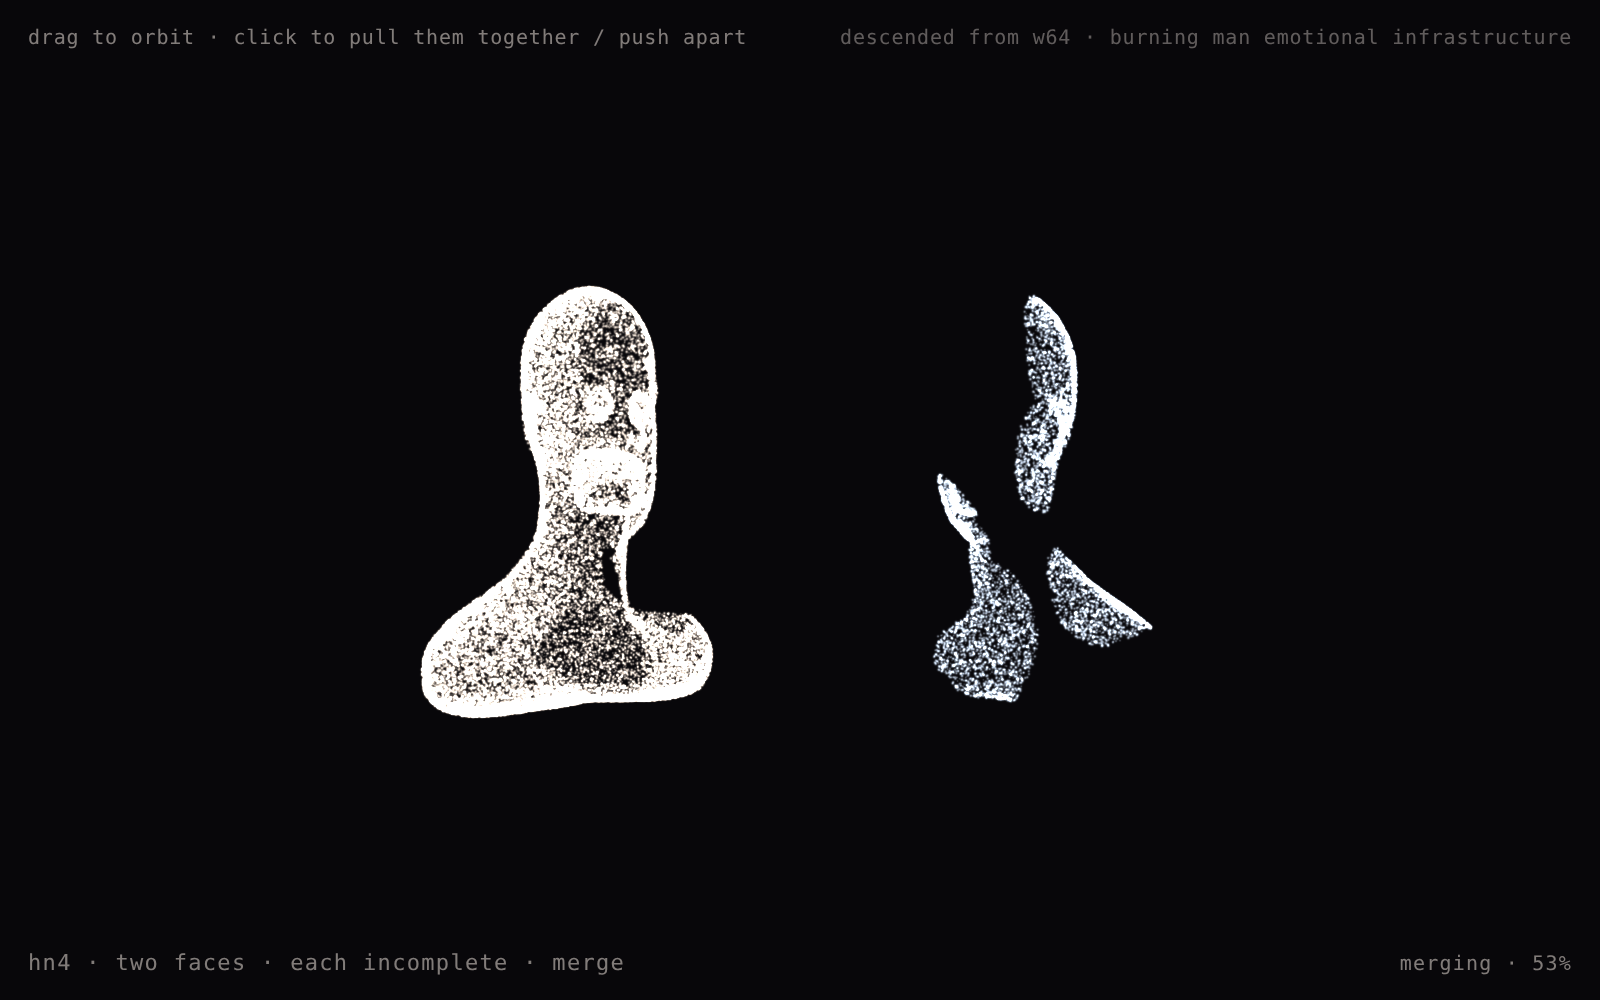
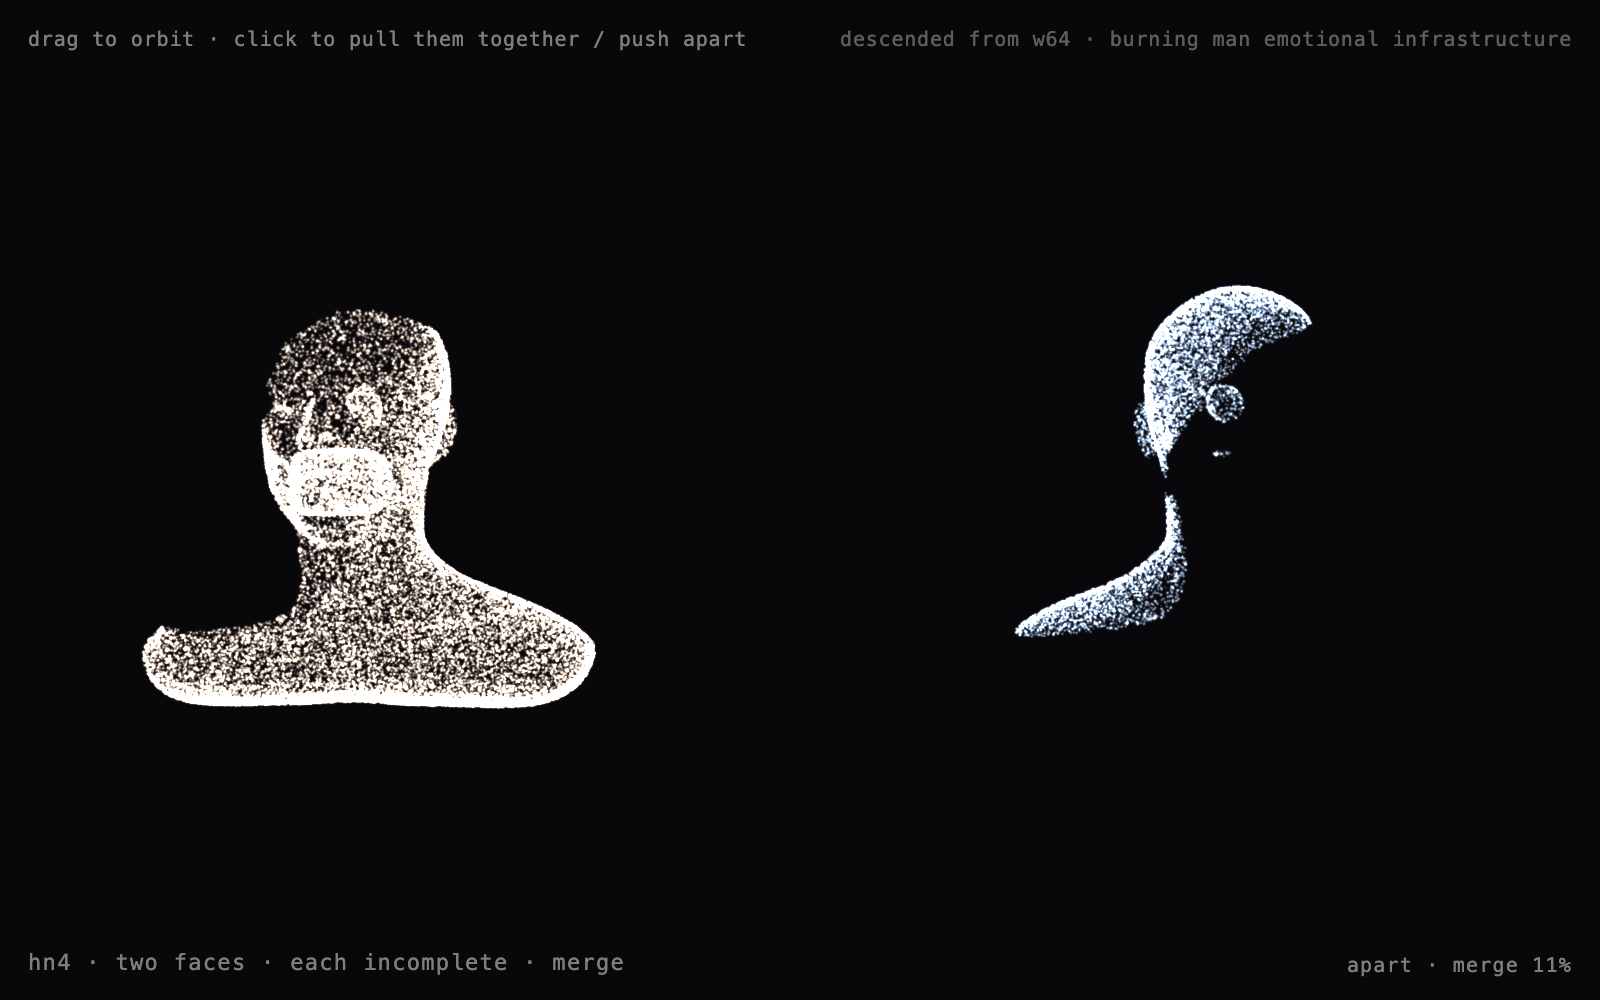
hn4: drop 90° rotation, shorten merge plateau
Two changes per user feedback while watching the piece:
1. The heads were rotated ±90° around Y so they faced each other in
   profile when apart. The un-rotation during merge read as a Y-axis
   sweep on top of the X-translation. Dropped the rotation; both heads
   now stay face-forward. Merge is pure X-axis translation toward x=0.
   The complementary-holes payload is unchanged (hole assignment is on
   restMerged, which had no rotation applied).
2. Auto-oscillation was symmetric 9s/9s, leaving ~5s of flat plateau
   at full merge. Changed to asymmetric 7s apart / 4s merged-target,
   so mix peaks briefly (~99%) and immediately reverses. Effective
   dwell at full merge ≈ 0s.

Validate-render passed: 7.75% non-background (≥ 0.5% threshold).

diff --git a/pieces/hn4/index.html b/pieces/hn4/index.html
@@ -221,37 +221,18 @@ loader.load(HEAD_URL,
       }
     }
 
-    // far-pose positions: head A at x=-APART_OFFSET, head B at x=+APART_OFFSET.
-    // Each is rotated +/-90° around Y so they FACE each other.
-    // For head A: rotate the merged position so head looks toward +x, then translate to -x
-    // For head B: rotate so head looks toward -x, then translate to +x
-    const tmpV = new THREE.Vector3();
-    const rotA = new THREE.Quaternion().setFromAxisAngle(new THREE.Vector3(0,1,0), Math.PI / 2);
-    const rotB = new THREE.Quaternion().setFromAxisAngle(new THREE.Vector3(0,1,0), -Math.PI / 2);
-    for (let i = 0; i < N; i++){
-      tmpV.set(restMerged[i*3], restMerged[i*3+1], restMerged[i*3+2]);
-      if (head[i] === 0){
-        tmpV.applyQuaternion(rotA);
-        tmpV.x -= APART_OFFSET;
-      } else {
-        tmpV.applyQuaternion(rotB);
-        tmpV.x += APART_OFFSET;
-      }
-      // store in the per-head buffers for shader's restFar attribute
-      // (we store it in a single per-particle far buffer — one array, indexed by particle)
-      // but I declared restA_far and restB_far separately above; instead just use restFar buffer
-    }
-
-    // build one per-particle "restFar" array
+    // Far-pose positions: head A at x=-APART_OFFSET, head B at x=+APART_OFFSET.
+    // Both heads keep the same face-forward orientation as the merged pose; the merge
+    // is a pure X-axis translation (no rotation). Earlier draft rotated each head ±90°
+    // around Y so they faced each other in profile, but the un-rotation during merge
+    // read as a Y-axis sweep on top of the X-translation. Pure X is cleaner and the
+    // complementary-holes payload is identical (the hole assignment is on restMerged).
     const restFar = new Float32Array(N * 3);
     for (let i = 0; i < N; i++){
-      tmpV.set(restMerged[i*3], restMerged[i*3+1], restMerged[i*3+2]);
-      const q = (head[i] === 0) ? rotA : rotB;
-      tmpV.applyQuaternion(q);
-      tmpV.x += (head[i] === 0) ? -APART_OFFSET : APART_OFFSET;
-      restFar[i*3]   = tmpV.x;
-      restFar[i*3+1] = tmpV.y;
-      restFar[i*3+2] = tmpV.z;
+      const dx = (head[i] === 0) ? -APART_OFFSET : APART_OFFSET;
+      restFar[i*3]   = restMerged[i*3]   + dx;
+      restFar[i*3+1] = restMerged[i*3+1];
+      restFar[i*3+2] = restMerged[i*3+2];
     }
 
     geom.setAttribute('position',   new THREE.BufferAttribute(restFar.slice(), 3));
@@ -293,10 +274,16 @@ function loop(){
     uniforms.uReady.value = Math.min(1.0, (performance.now() - revealStart) / 2400);
   }
 
-  // auto-oscillate slowly so the thumbnail catches a meaningful state
-  // (Math.floor(t/9) % 2 alternates 0 and 1 every 9s)
-  const auto = (Math.floor(t / 9) % 2 === 1) ? 1 : 0;
-  const desired = target ^ auto;
+  // Auto-oscillate asymmetrically so the merged state has a brief peak, not a long plateau.
+  // Apart phase is longer (lets the viewer read the holes); merged phase is just long
+  // enough for the lerp to reach ~99%, then immediately reverses. Effective dwell at
+  // full merge ≈ 0s (just the natural decay tip), down from ~5s in the symmetric 9/9 cycle.
+  const APART_S  = 7.0;
+  const MERGED_S = 4.0;
+  const cycleS   = APART_S + MERGED_S;
+  const tCycle   = t % cycleS;
+  const auto     = (tCycle > APART_S) ? 1 : 0;
+  const desired  = target ^ auto;
   mix += (desired - mix) * 0.018;
   uniforms.uMix.value = mix;
 
